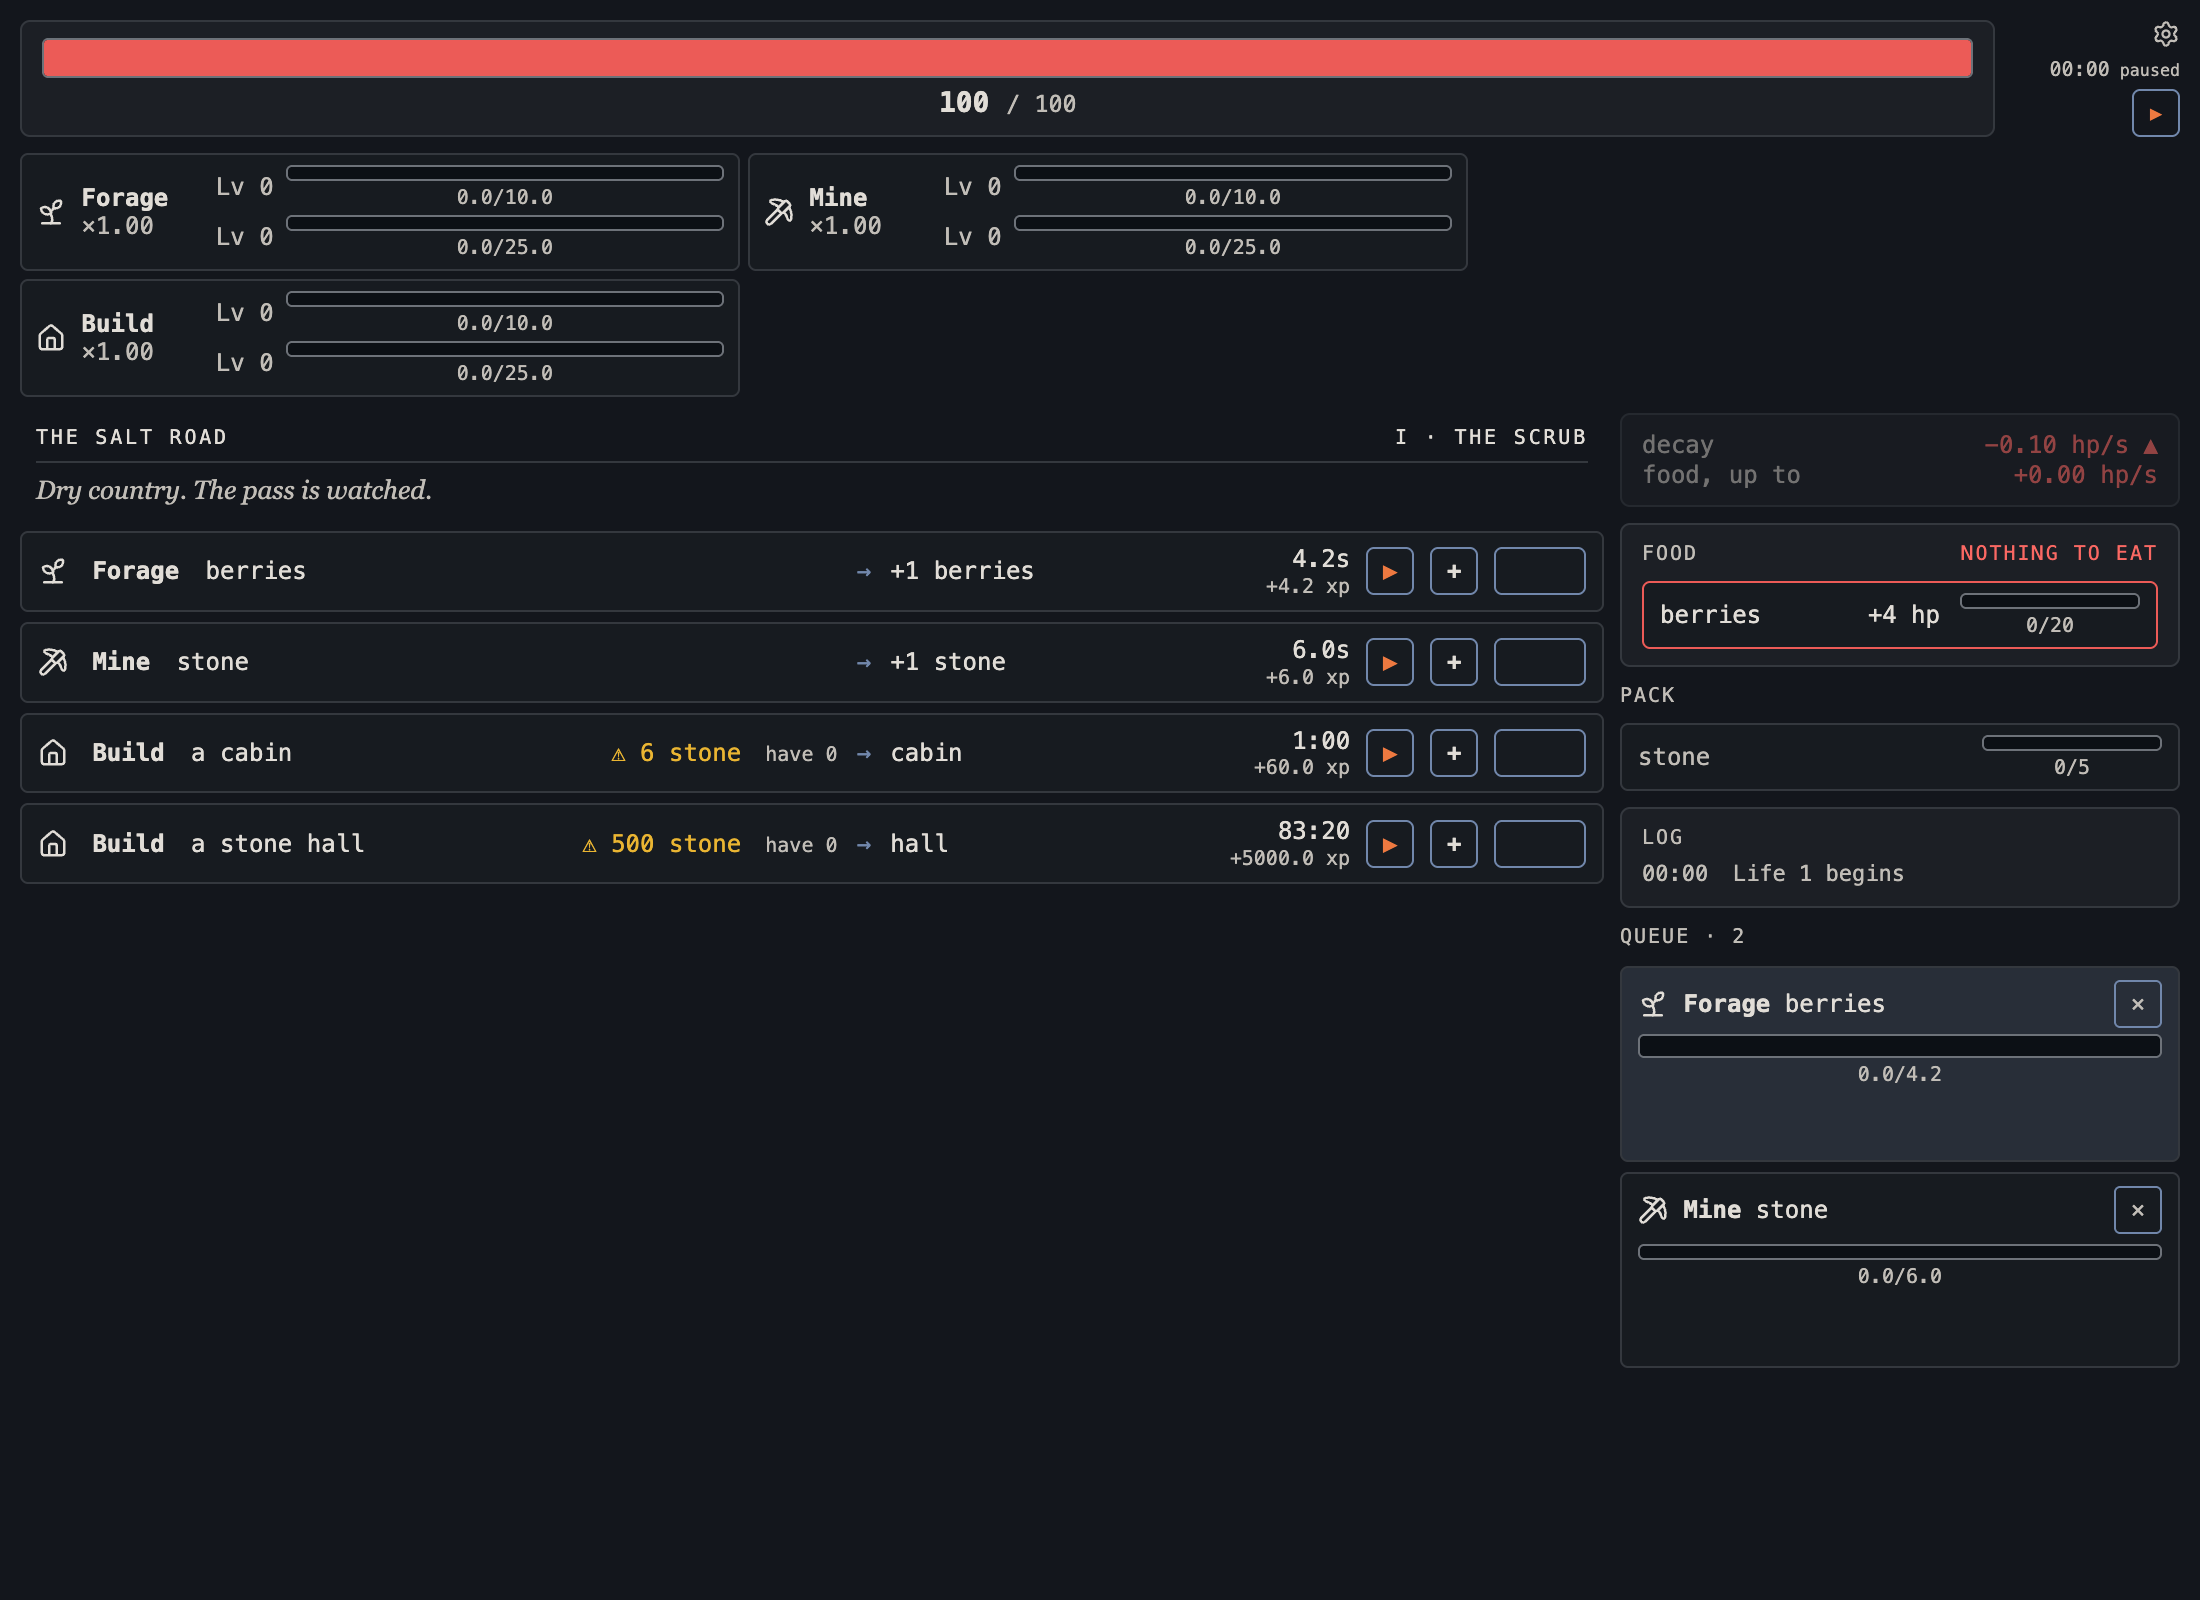
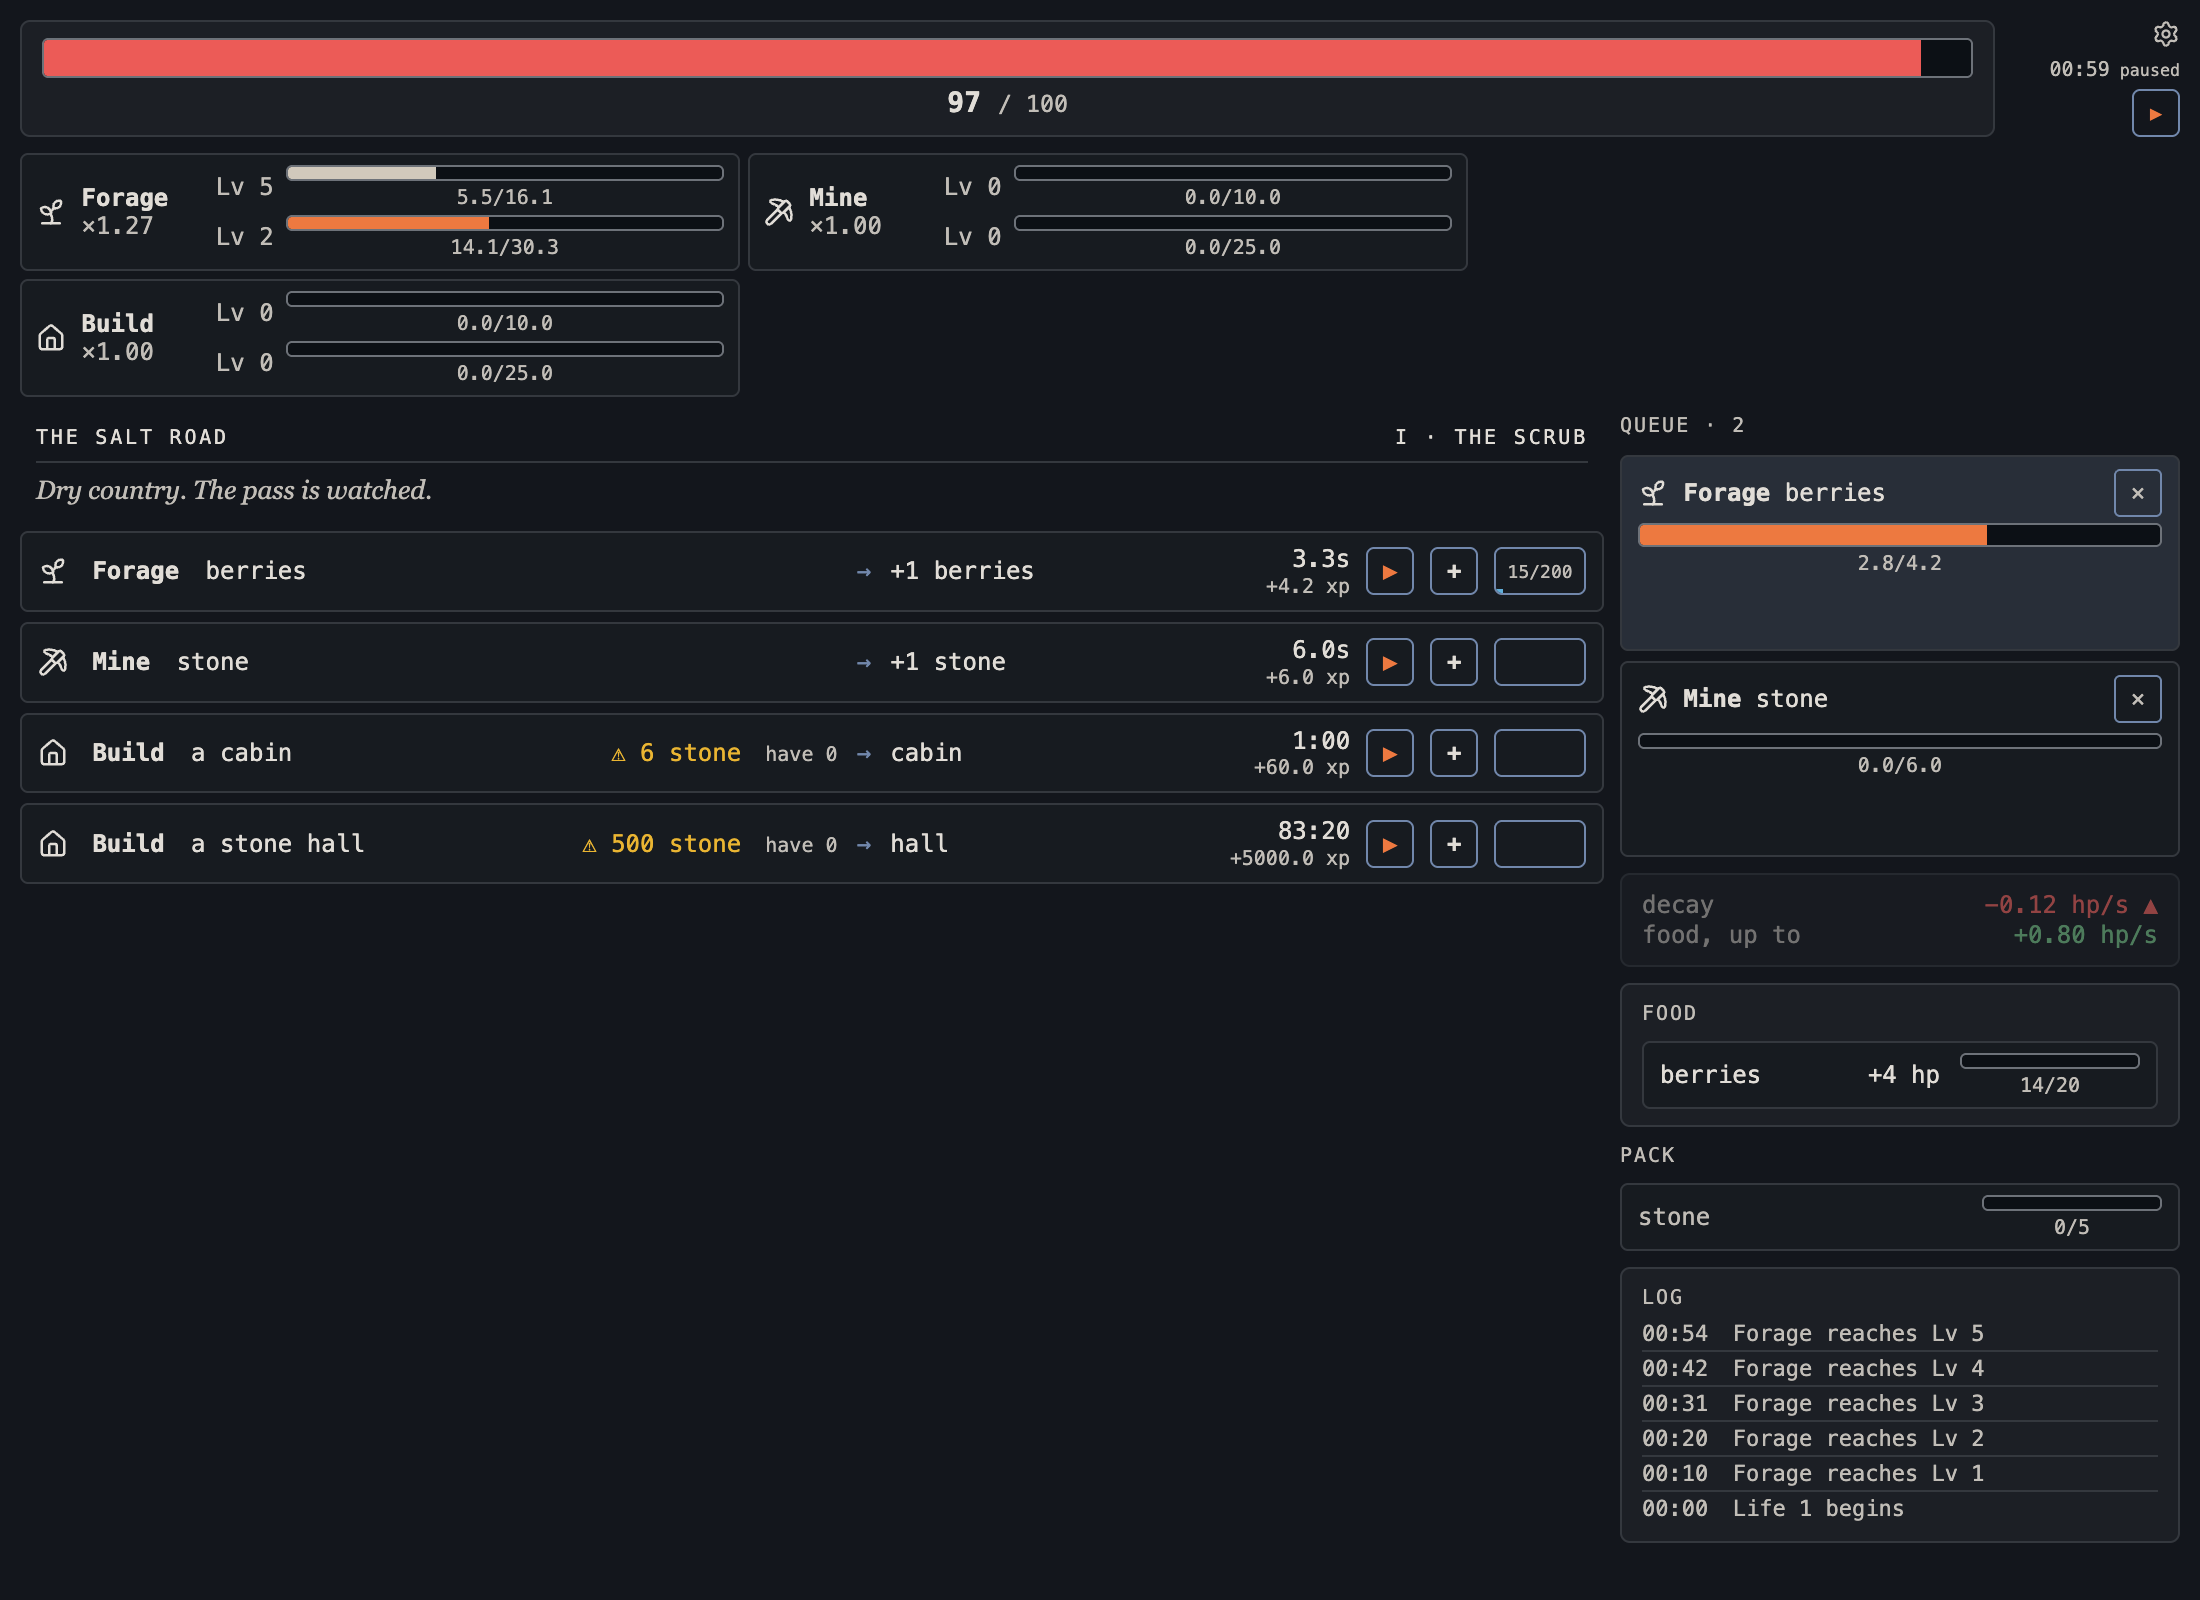
feat: the page folds below 1280 instead of scrolling; floor 732px

diff --git a/src/styles.css b/src/styles.css
@@ -110,7 +110,8 @@ body { background: var(--bg); color: var(--ink); font-family: var(--mono); font-
 .auto { width: calc(7ch + 8px); height: var(--control); border: 1px solid var(--edge-on); border-radius: 4px; display: inline-flex; align-items: center; justify-content: center; color: var(--ink-2); font-size: 9px; position: relative; overflow: hidden; box-sizing: border-box; }
 .auto i { position: absolute; left: 0; bottom: 0; height: 2px; background: var(--auto); }
 
-.screen { display: grid; gap: 8px; padding: 10px; min-width: 1280px; }
+/* The floor is the action row, which cannot shrink below 712px, plus the page padding. Below it the page scrolls sideways; a phone layout is #62. */
+.screen { display: grid; gap: 8px; padding: 10px; min-width: 732px; container-type: inline-size; }
 .top { display: grid; grid-template-columns: 1fr auto; gap: 8px; align-items: stretch; }
 .corner { display: flex; flex-direction: column; align-items: flex-end; justify-content: space-between; font-size: 10px; color: var(--ink-2); gap: 4px; width: 14ch; }   /* pinned: "00:00 waiting" must not resize the health bar */
 .corner__gear { width: 14px; height: 14px; }
@@ -119,6 +120,19 @@ body { background: var(--bg); color: var(--ink); font-family: var(--mono); font-
 .columns { display: grid; grid-template-columns: 1fr 250px 280px; gap: 8px; align-items: start; }
 .middle { display: grid; gap: 8px; }
 .queue { display: grid; gap: 5px; align-content: start; }
+/* Narrower windows fold the columns rather than scroll (2026-09-23). Container queries on .screen measure the content box, so a classic scrollbar cannot push the page a few pixels past a breakpoint. 1258 = chapter floor 712 + 250 + 280 + two 8px gaps; 1000 = 712 + 280 + one gap. Below 1258 the queue sits in the second column above the middle one: the middle grows as the log fills, the queue grows at its own bottom, so the queue's buttons never move under the cursor. Below 1000 the chapter takes the full width and queue and middle sit side by side under it. */
+@container (max-width: 1257px) {
+  .columns { grid-template-columns: 1fr 280px; }
+  .columns__chapter { grid-column: 1; grid-row: 1 / span 2; }
+  .queue { grid-column: 2; grid-row: 1; }
+  .middle { grid-column: 2; grid-row: 2; }
+}
+@container (max-width: 999px) {
+  .columns { grid-template-columns: 1fr 1fr; }
+  .columns__chapter { grid-column: 1 / -1; grid-row: 1; }
+  .middle { grid-column: 1; grid-row: 2; }
+  .queue { grid-column: 2; grid-row: 2; }
+}
 .entry { display: grid; grid-template-columns: 1.4em 1fr var(--control); gap: 3px 6px; align-items: center; padding: 6px 8px; }
 .entry svg { width: 15px; height: 15px; }
 .entry--on { background: var(--cell-on); }

diff --git a/docs/mockups/2026-09-23-fold.html b/docs/mockups/2026-09-23-fold.html
@@ -24,7 +24,7 @@
   a utility, not a phone concern. At 1280 and wider nothing changes. The floor is the
   action row (712px) plus page padding: 732px. A phone layout is #62.</p>
   <figure>
-    <figcaption>1100 <span>(band wraps 2 + 1; queue under the middle column)</span></figcaption>
+    <figcaption>1100 <span>(band wraps 2 + 1; queue above the middle column, so its buttons do not drift as the log fills)</span></figcaption>
     <img src="2026-09-23-fold-1100.png" alt="Layout at 1100px">
   </figure>
   <figure>

diff --git a/CLAUDE.md b/CLAUDE.md
@@ -249,10 +249,16 @@ unsubscribed event) ship without asking.
   under `src/engine/`.
 - **Ten additions of `0.1` are `0.9999…`.** A test that counts ticks to a
   completion uses `floor(expCost / baseTickExp) + 1`, not `ceil`.
-- **The layout has a 1280px minimum; only the skills band reflows.** Its cells
-  are a fixed 360px and wrap by window width (mockup 2026-09-23-wrapping-band).
-  Nothing else reflows: desktop target, accepted (audit 2026-09-22); a phone
-  layout is #62.
+- **The layout folds rather than scrolls, down to 732px.** The skills band's
+  cells are a fixed 360px and wrap by window width (mockup
+  2026-09-23-wrapping-band). Below 1280 the queue moves into the second
+  column *above* the middle one (the middle grows as the log fills; above it,
+  the queue's buttons stay put); below 1020 the chapter takes the full width
+  with middle and queue side by side under it (`src/styles.css`, two
+  `@container` queries on `.screen`, which measure the content box so a
+  classic scrollbar cannot tip a breakpoint; mockup 2026-09-23-fold). The floor is the action row, which cannot shrink below
+  712px; under 732 (747 with a classic 15px scrollbar showing) the page
+  scrolls sideways. A phone layout is #62.
 - **`step()` returns the same object when nothing happened.** React skips
   the render on an idle tick, and `useGame` only logs a state that is new. A
   change that spreads the state on every tick breaks both silently.

diff --git a/docs/plans/2026-09-23-books-own-their-skills.md b/docs/plans/2026-09-23-books-own-their-skills.md
@@ -9,10 +9,14 @@ carries the spec.
 **Task 1 pick (2026-09-23): neither A nor B.** Shown both, the user chose a
 third layout: skill cells at a fixed **360px**, filling left to right and
 wrapping by window width (three to a row at 1280, five at 1920; one cell to a
-phone's width once #62 lifts the 1280 minimum). Mockups `docs/mockups/2026-09-23-wrapping-band.html` (chosen)
+phone's width once #62 goes below the 732px floor). Mockups `docs/mockups/2026-09-23-wrapping-band.html` (chosen)
 and `2026-09-23-skills-column.html` (a right-hand column, rejected). Health on
 top and a bottom bar for clock, gear and pause were picked in the same pass;
 they belong to #46 and are not in this slice. A phone layout is #62.
+During the verify the user added, as a utility for desktop windows: the page
+folds instead of scrolling below 1280 (queue above the middle column, then
+chapter full width), down to a 732px floor set by the action row. Mockup
+`docs/mockups/2026-09-23-fold.html`.
 
 > **For agentic workers:** REQUIRED SUB-SKILL: Use superpowers:subagent-driven-development (recommended) or superpowers:executing-plans to implement this plan task-by-task. Steps use checkbox (`- [ ]`) syntax for tracking.
 

diff --git a/docs/mockups/README.md b/docs/mockups/README.md
@@ -29,4 +29,4 @@ evidence.
 | 2026-09-23 | [three-cell-band](2026-09-23-three-cell-band.html) | the real band at a three-skill roster: A empty fourth slot, B stretched to three across |
 | 2026-09-23 | [skills-column](2026-09-23-skills-column.html) | health on top, clock/pause/settings bottom row, skills as a scrolling right column: A four columns (rows clip), B queue under middle |
 | 2026-09-23 | [wrapping-band](2026-09-23-wrapping-band.html) | skills band at a fixed 360px cell (312 shown, not chosen), wrapping by window width; health full width on top; clock/pause/settings bottom row. Supersedes skills-column |
-| 2026-09-23 | [fold](2026-09-23-fold.html) | captures of the built change: below 1280 the queue folds under the middle column, below 1020 the chapter goes full width; floor 732px |
+| 2026-09-23 | [fold](2026-09-23-fold.html) | captures of the built change: below 1280 the queue folds above the middle column, below 1020 the chapter goes full width; floor 732px |
